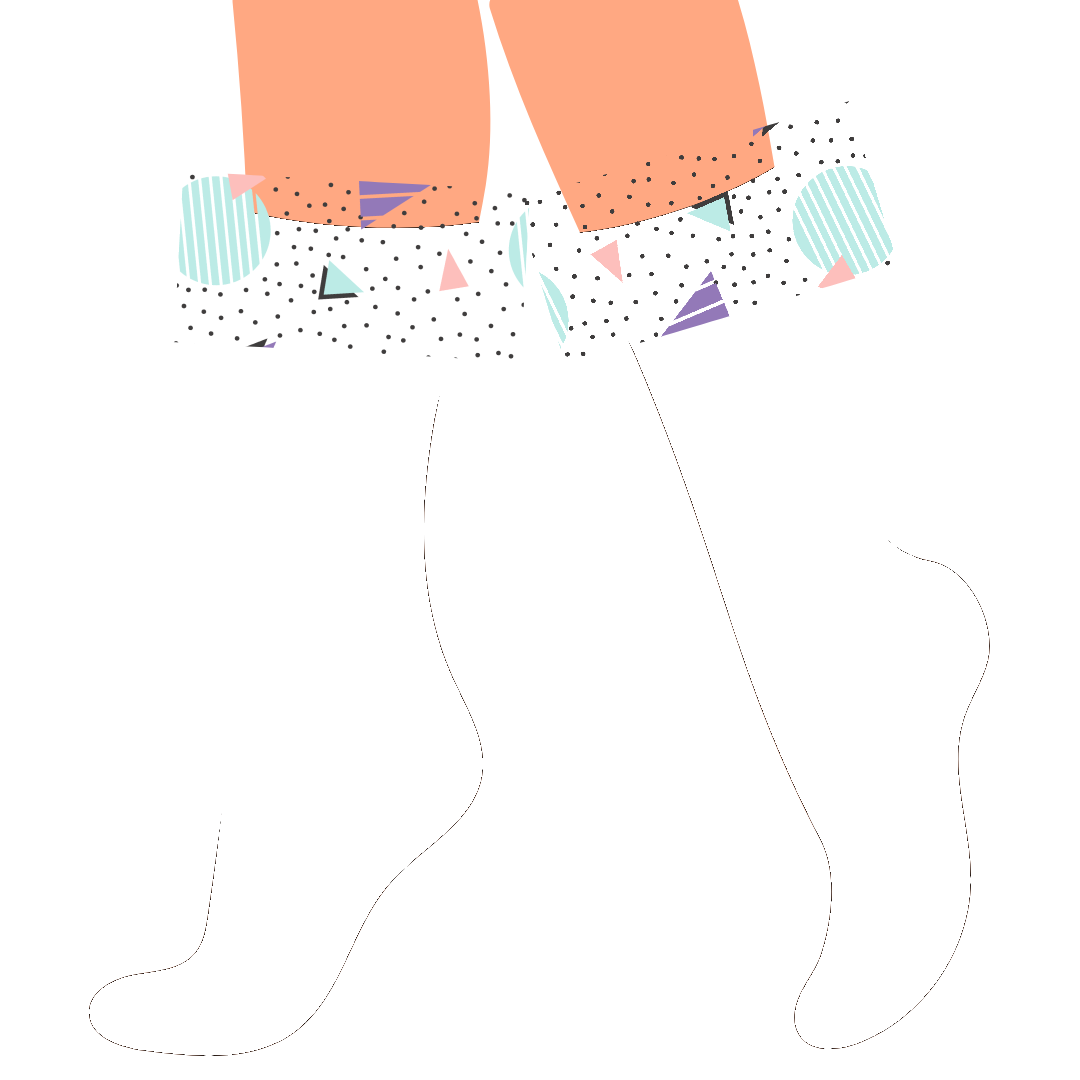
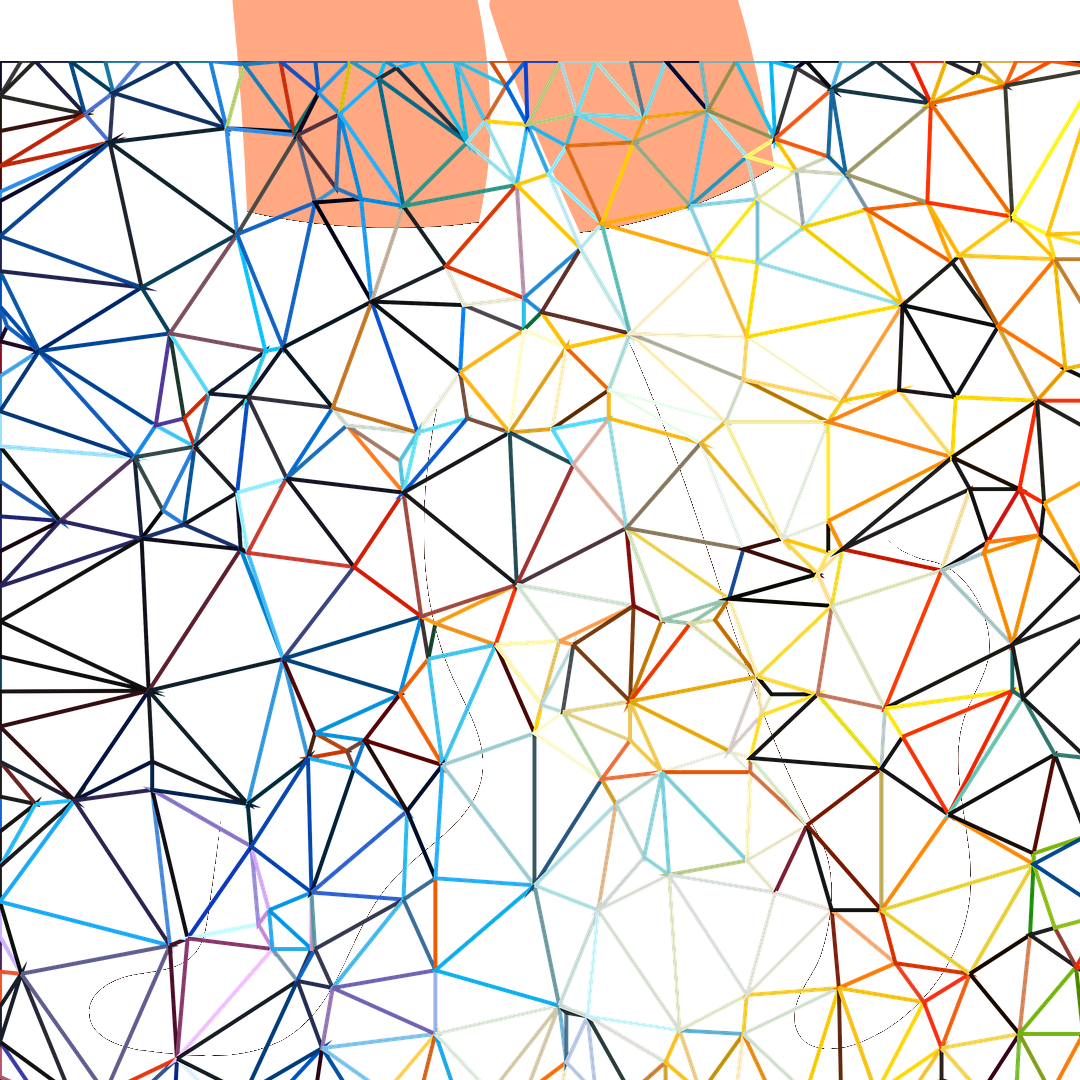
Философские споры о паттернах и картинках

Changed region(s): [[0.0, 0.0306, 1.0, 1.0]]

diff --git a/db/seeders/20220615133222-all_seeds.js b/db/seeders/20220615133222-all_seeds.js
@@ -37,60 +37,60 @@ module.exports = {
         updatedAt: new Date(),
       },
     ];
-    const patterns = [
+    const pics = [
       {
-        pattern_name: 'Геометрия',
-        pattern_url: 'pattern1',
+        pic_name: 'Геометрия',
+        pic_url: 'picture1.png',
         createdAt: new Date(),
         updatedAt: new Date(),
       },
       {
-        pattern_name: 'Круги',
-        pattern_url: 'pattern2',
+        pic_name: 'Круги',
+        pic_url: 'picture2.png',
         createdAt: new Date(),
         updatedAt: new Date(),
       },
       {
-        pattern_name: 'Сетка',
-        pattern_url: 'pattern3',
-        createdAt: new Date(),
-        updatedAt: new Date(),
-      },
-      {
-        pattern_name: 'Буквы',
-        pattern_url: 'pattern4',
+        pic_name: 'Буквы',
+        pic_url: 'picture3.png',
         createdAt: new Date(),
         updatedAt: new Date(),
       },
     ];
-    const pics = [
+    const patterns = [
       {
-        pic_name: 'JavaScript',
-        pic_url: 'pic1',
+        pattern_name: 'Сетка',
+        pattern_url: 'pattern1.png',
         createdAt: new Date(),
         updatedAt: new Date(),
       },
       {
-        pic_name: 'Николас Кейдж',
-        pic_url: 'pic2',
+        pattern_name: 'JavaScript',
+        pattern_url: 'pattern2.jpg',
         createdAt: new Date(),
         updatedAt: new Date(),
       },
       {
-        pic_name: 'Пёсики',
-        pic_url: 'pic3',
+        pattern_name: 'Николас Кейдж',
+        pattern_url: 'pattern3.jpg',
+        createdAt: new Date(),
+        updatedAt: new Date(),
+      },``
+      {
+        pattern_name: 'Пёсики',
+        pattern_url: 'pattern4.jpg',
         createdAt: new Date(),
         updatedAt: new Date(),
       },
       {
-        pic_name: 'Котики',
-        pic_url: 'pic4',
+        pattern_name: 'Котики',
+        pattern_url: 'pattern5.jpg',
         createdAt: new Date(),
         updatedAt: new Date(),
       },
       {
-        pic_name: 'Совы',
-        pic_url: 'pic5',
+        pattern_name: 'Совы',
+        pattern_url: 'pattern6.jpg',
         createdAt: new Date(),
         updatedAt: new Date(),
       },

diff --git a/public/css/style.css b/public/css/style.css
@@ -71,11 +71,19 @@ p {
   left: 0px;
   width: 600px;
   height: 600px;
+  background-size: 600px 600px;
 }
 
 #sock-constructor {
   background-image: url('/img/constructor.png');
-  background-size: 600px 600px;
+}
+
+#sock-pattern {
+  background-image: url('/img/patterns/pattern1.png');
+}
+
+#sock-picture {
+  background-image: url('/img/pictures/pic3.jpg');
 }
 
 /*
